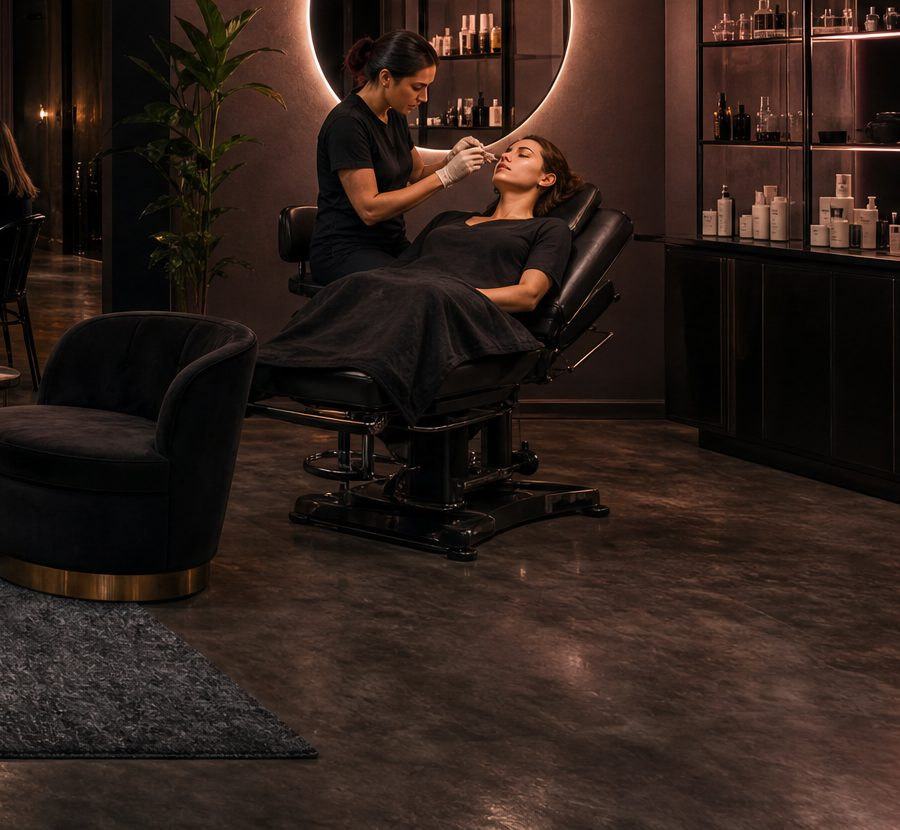
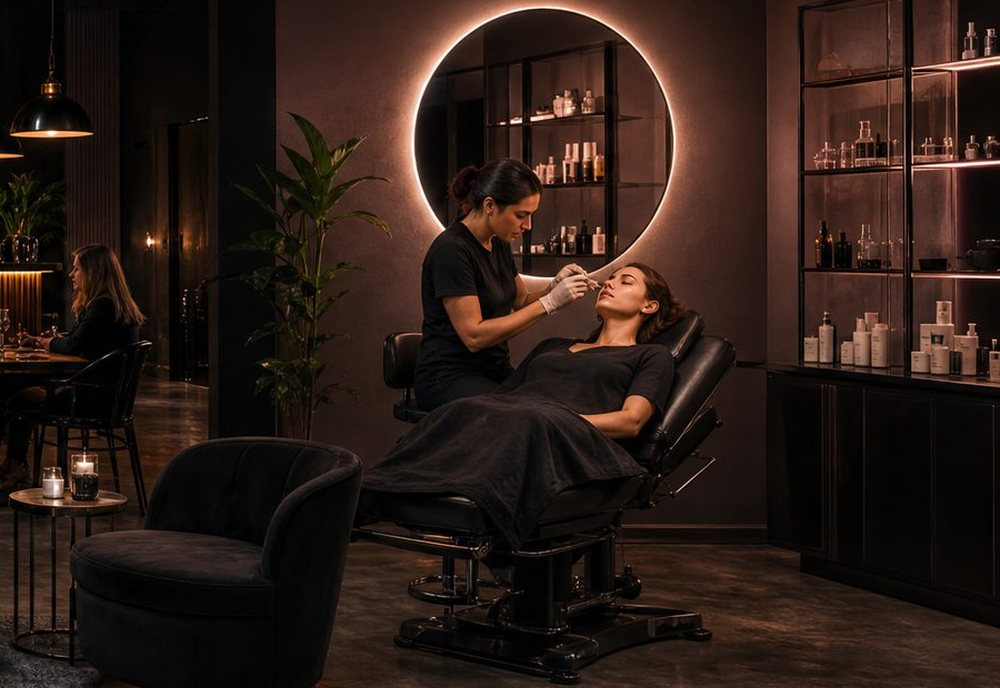
fix(hero): make the mobile bands show what each brand actually does
The bands are wide and flat, so object-fit kept only a thin horizontal
strip of each crop — and that strip held furniture, not people. Nobody
could tell the tattoo studio from the beauty room.

Each crop is now framed so the action sits in the middle of that strip:
the tattoo machine and inked arms, the bar with its bottle wall, the
facial treatment. The ink crop is mirrored because the artist sits on
the left of the room, which is exactly where the mark and the text
cover the picture.

The gradient now fades out earlier for the same reason: it only has to
carry the text, not darken the whole band.

diff --git a/css/styles.css b/css/styles.css
@@ -331,7 +331,7 @@ a{color:inherit;text-decoration:none}
   .hero--portal .zone[data-brand]:first-of-type{box-shadow:none}
   .zone__shot{display:block;position:absolute;inset:0;z-index:0;width:100%;height:100%;object-fit:cover;transform-origin:50% 45%;transition:transform 1s cubic-bezier(.62,.02,.28,1)}
   /* Derselbe Pseudo-Layer, hier aber Dauergradient hinter Wappen und Text. */
-  .zone::before{z-index:1;opacity:1;background:linear-gradient(90deg,rgba(4,5,9,.9) 0%,rgba(4,5,9,.66) 52%,rgba(4,5,9,.42) 100%)}
+  .zone::before{z-index:1;opacity:1;background:linear-gradient(90deg,rgba(4,5,9,.92) 0%,rgba(4,5,9,.78) 30%,rgba(4,5,9,.42) 62%,rgba(4,5,9,.22) 100%)}
   .portal__scene.is-focused .zone:not(.is-active)::before{opacity:1}
 
   /* Wappen links, Text rechts: quer laesst sich die flache Karte fuellen. */
